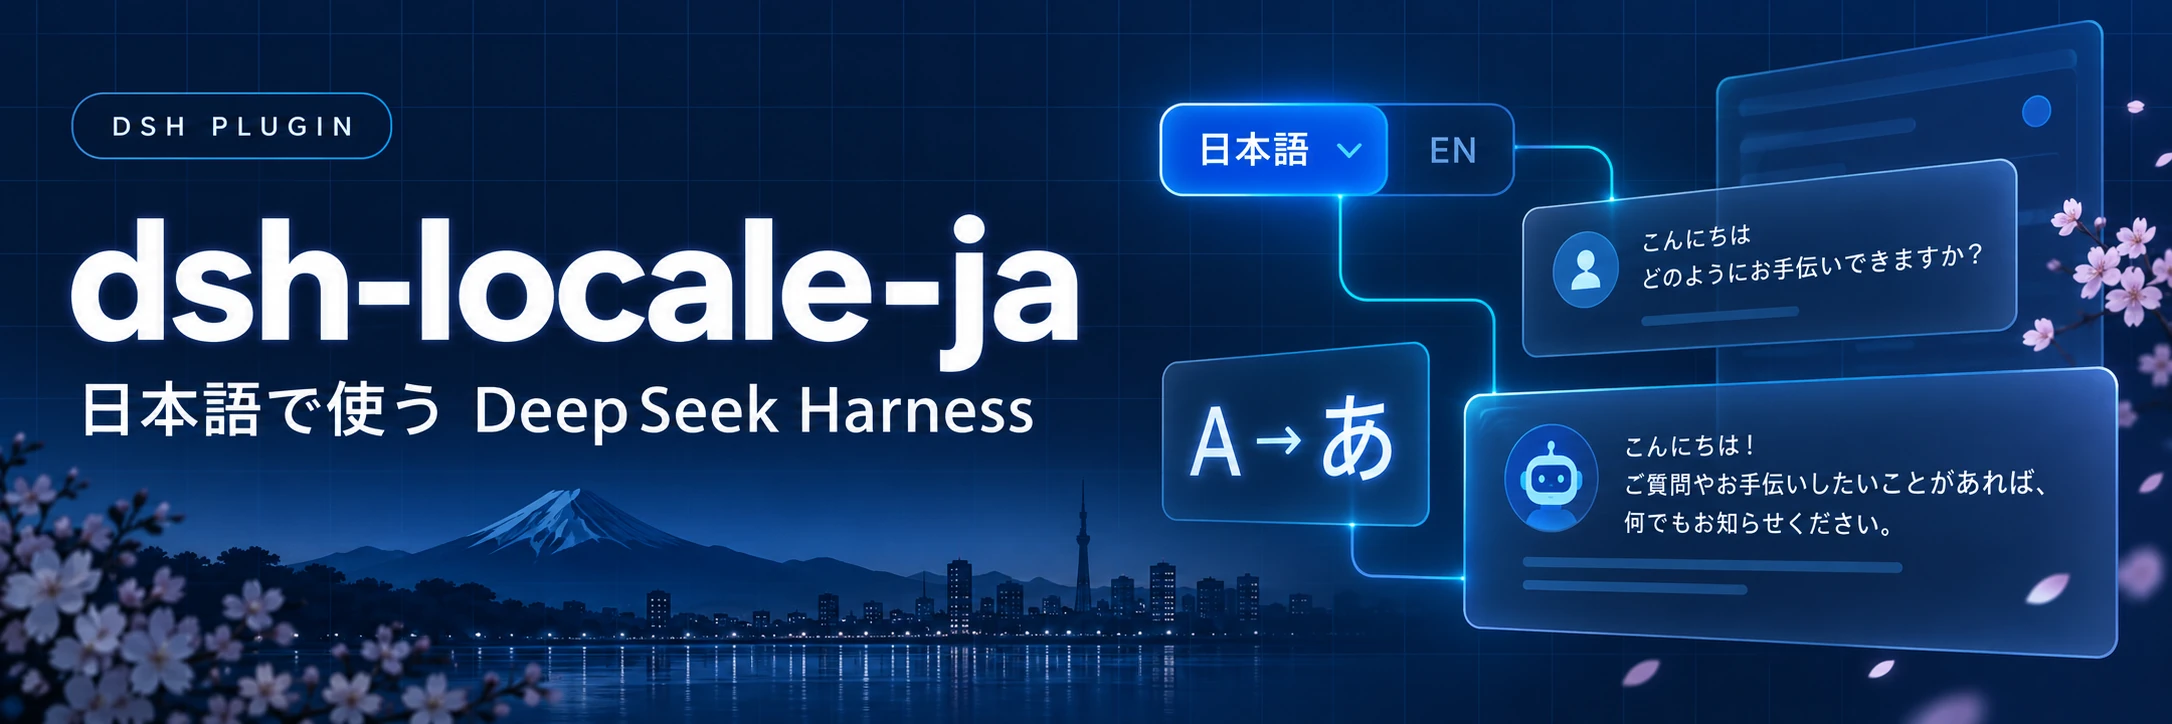
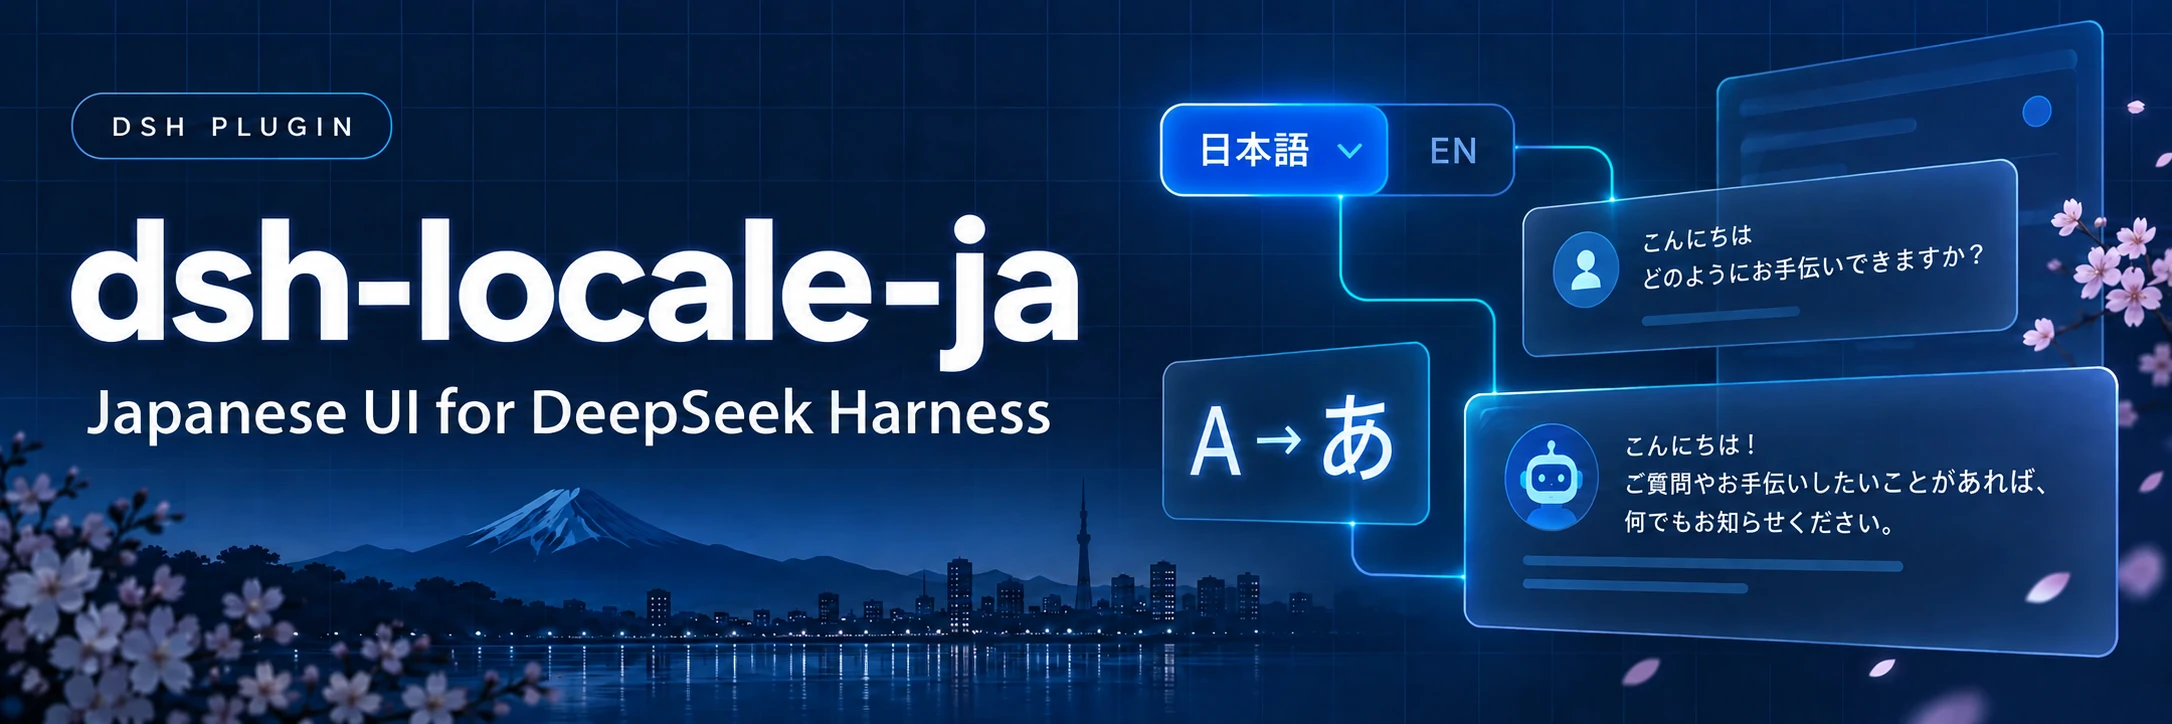
docs: READMEを英語標準にし日本語版と構成を統一

diff --git a/README.md b/README.md
@@ -1,52 +1,66 @@
 <p align="center">
-  <img src="docs/images/readme-header.webp" alt="dsh-locale-ja — 日本語で使う DeepSeek Harness" width="960" />
+  <img src="docs/images/readme-header.webp" alt="dsh-locale-ja — Japanese UI for DeepSeek Harness" width="960" />
 </p>
 
 # dsh-locale-ja
 
-DeepSeek Harness（DSH）の Web UI に **日本語** を追加するプラグインです。本体は変更せず、DSH が公開している言語パック API だけを使います。
+[English](README.md) | [日本語](README.ja.md)
 
-> DSH 0.2.1-alpha.2 の UI 文字列 2,766 件のうち 2,762 件を収録しています（残り4件は空白だけの区切り文字で、英語のまま使います）。0.2.0-rc.2 にしかない文字列の訳も残しています。
+A Japanese language plugin for the DeepSeek Harness (DSH) Web UI, built on DSH's public language-pack API without changing the host application.
 
-## 対応バージョン
+## Features
 
-`web` プロファイルで使います。プラグインの版ごとの対応 DSH は次のとおりです（各版の変更点は [CHANGELOG.md](./CHANGELOG.md)）。
+- Japanese translations for 2,762 of the 2,766 UI strings in DSH `0.2.1-alpha.2`. The remaining four strings are whitespace-only separators and retain their original English values.
+- Retains translations for strings found only in `0.2.0-rc.2`.
+- Requests Japanese AI replies while Japanese is explicitly selected in the UI. Users can still request another reply language.
 
-| プラグイン | 対応 DSH |
+## Compatibility
+
+Use this plugin with the `web` profile. See [CHANGELOG.md](CHANGELOG.md) for release details.
+
+| Plugin | Supported DSH |
 | --- | --- |
-| `v0.3.0` | `0.2.0-rc.2` 以降の `0.2.x`（確認済み：`0.2.0-rc.2`、`0.2.1-alpha.2`） |
-| `v0.2.0` | `0.2.0-rc.2` 以降の `0.2.x`（確認済み：`0.2.0-rc.2`、`0.2.1-alpha.2`） |
-| `v0.1.0` | `0.2.0-rc.2`、`0.2.1-alpha.2` |
+| `v0.3.0` | `0.2.x` starting with `0.2.0-rc.2` (verified: `0.2.0-rc.2`, `0.2.1-alpha.2`) |
+| `v0.2.0` | `0.2.x` starting with `0.2.0-rc.2` (verified: `0.2.0-rc.2`, `0.2.1-alpha.2`) |
+| `v0.1.0` | `0.2.0-rc.2`, `0.2.1-alpha.2` |
 
-`v0.2.0` 以降は、確認していない `0.2.x` の DSH でも読み込まれます。そうした版で新しく増えた文字列は、対応版が出るまで英語で表示されます。
+From `v0.2.0`, the plugin also loads on unverified DSH versions within this `0.2.x` range. Strings introduced by those versions appear in English until a plugin update adds translations.
 
-## インストール
+## Installation
 
-使っている DSH に対応する版のタグを指定して、リポジトリから直接入れます（ビルド済みの `lib/` をリポジトリに含めています）。
+Install a tag compatible with your DSH version. The repository includes prebuilt `lib/` files.
 
-```bash
-dsh plugin --profile web add github:so16tm/dsh-locale-ja#v0.3.0
+```sh
+dsh plugin --profile web add 'git+https://github.com/so16tm/dsh-locale-ja.git#v0.3.0'
 dsh web
 ```
 
-アプリ画面の **Plugins → Add plugin** に `github:so16tm/dsh-locale-ja#v0.3.0` と入力しても入れられます。タグを付けずに指定すると、まだ版として公開していない `main` の最新が入ります。
+This repository is private. Install Git and configure GitHub authentication for an account with access before installing from it.
 
-更新するときは、削除せずに新しい版のタグで同じコマンドを実行し、`dsh web` を再起動してください。入っている版が新しい版に置き換わります。
+You can also enter `git+https://github.com/so16tm/dsh-locale-ja.git#v0.3.0` in **Plugins → Add plugin**. Omitting the tag installs the latest `main`, which may contain unreleased changes.
 
-**Settings → General → Language** で **日本語** を選びます。選択は DSH の設定に保存されます。
+To update, run the same `add` command with the new release tag and restart `dsh web`. It replaces the installed version; you do not need to remove it first.
 
-他の日本語化プラグイン（`@fang2hou/dsh-locale-ja` など）とは同時に有効にできません。先に削除してください。
+To remove:
 
-### AI の応答言語
+```sh
+dsh plugin --profile web remove @so16tm/dsh-locale-ja
+```
 
-**Settings → General → Language** で **日本語** を選んでいる間、このプラグインは日本語で応答するよう AI に指示する一文を、システムプロンプトに加えます。DSH の既定のプロンプトには応答言語の指定がないため、ツールの出力やファイルの言語に引きずられて、応答が英語や中国語に切り替わることがあります。
+## Usage
 
-- 言語を切り替えると、次の応答から反映されます。
-- 日本語以外を選んでいるときや、言語を明示的に選んでいない（ブラウザー任せの）ときは、何も加えません。
-- DSH をループバック以外のアドレス（LAN 内の別の PC など）から開くと、言語の選択は DSH 側に保存されないため、この指示は加わりません。
-- ユーザーが別の言語を明示的に頼んだときは、その言語で応答します。
+Choose **日本語** in **Settings → General → Language**. DSH saves this selection in its settings.
 
-不要な場合は、プロファイルの `cordis.patch.yml` に次を追加すると無効になります。
+While Japanese is explicitly selected, the plugin adds an instruction to the system prompt asking the AI to reply in Japanese. DSH's default prompt does not specify a reply language, so otherwise tool output or file contents can cause replies to switch to English or Chinese.
+
+- Changing the selected language takes effect on the next reply.
+- Selecting another language, or leaving language selection to the browser, adds no instruction.
+- When DSH is opened from a non-loopback address (for example, another PC on the LAN), DSH does not save the language selection on the host, so the instruction is not added.
+- Explicit requests from the user for another language take precedence.
+
+## Configuration
+
+To disable the reply-language instruction, add this entry to the profile's `cordis.patch.yml`:
 
 ```yaml
 - id: so16tm-locale-ja
@@ -54,42 +68,51 @@ dsh web
     replyInUiLanguage: false
 ```
 
-## 開発
+## Limitations
 
-```bash
-pnpm check   # 型チェック + ビルド + テスト
+Do not enable this plugin alongside another Japanese language plugin, such as `@fang2hou/dsh-locale-ja`. Remove the other plugin first.
+
+## Development
+
+```sh
+pnpm install --frozen-lockfile
+pnpm check
 ```
 
-### 本体の新しい版に追従する
+`pnpm check` runs type checking, the build, tests, translation coverage, and release-note validation.
 
-Claude Code では `/dsh-update <版>` で、以下の手順と翻訳・互換性確認・PR 作成までをまとめて実行できます（[スキル](./.claude/skills/dsh-update/SKILL.md)）。手作業で行う場合は次のとおりです。
+### Tracking a new DSH release
 
-```bash
-pnpm sync 0.2.1-alpha.2   # 版または dist-tag（省略時は next）
+In Claude Code, `/dsh-update <version>` runs the update workflow, including translation, compatibility checks, and PR creation. See the [skill](.claude/skills/dsh-update/SKILL.md). To perform the workflow manually:
+
+```sh
+pnpm sync 0.2.1-alpha.2
 ```
 
-npm から指定版の DSH をスクリプト無効で `.dsh-cache/` に取得し、配布コードを静的解析して英語原文を `sources/en.json` に書き出します。前の版と比べた追加・変更・削除の件数と翻訳率を表示します。訳すべきキー（未訳、または英語が変わったもの）は `.dsh-cache/sync-report.json` の `todo` に英語原文つきで出力されます。
+The argument accepts a version or dist-tag and defaults to `next`. The script downloads the specified DSH version from npm into `.dsh-cache/` with package scripts disabled, statically analyzes its distributed code, and writes the English source strings to `sources/en.json`. It reports added, changed, and removed strings and translation coverage. Keys requiring translation (missing translations or changed English) appear in the `todo` field of `.dsh-cache/sync-report.json`, together with their English source.
 
-前の版は引き続き対応版として扱います。前の版にしかないキーや英語が違うキーは、その英語とともに `sources/older.json` に残り、訳も消えません。訳はどの版の英語にも合う言い回しにします（`todo` の `olderEn`）。古い版の対応をやめるときだけ `--drop-older` を付けます。前の版の英語の記録と、新しい版で消えたキーの訳がまとめて消えます。
+The previous version remains supported. Keys found only in that version, or whose English differs, are retained with their English text in `sources/older.json`; their translations are kept as well. Use wording that fits both English versions (see `olderEn` in `todo`). Use `--drop-older` only when dropping support for the previous version: it removes the previous English records and translations for keys absent from the new version.
 
-訳した結果は `{ "名前空間": { "キー": "訳" } }` 形式の JSON にまとめ、次のコマンドで取り込みます。存在しないキーや `{name}` 置換の不一致は拒否されます。
+Prepare translations as JSON in the form `{ "namespace": { "key": "translation" } }`, then apply them:
 
-```bash
+```sh
 pnpm apply path/to/new-translations.json
-pnpm coverage          # 翻訳率の確認（--strict で未訳があれば失敗）
+pnpm coverage
 ```
 
-### 版の公開
+Unknown keys and mismatched `{name}` placeholders are rejected. Use `pnpm coverage --strict` to fail when translations are missing.
 
-版は `package.json` の `version` とタグ `v<版>` で管理します。
+### Releasing a version
 
-1. PR で `version` を上げ、[CHANGELOG.md](./CHANGELOG.md) に `## v<版>` の節（対応 DSH と変更点）を追加し、README の対応表を更新します。節がないと `pnpm check` が失敗します。
-2. PR を `main` にマージすると、CI がタグ `v<版>` と GitHub のリリースを自動で作成します。
+Versions are managed by `version` in `package.json` and the `v<version>` Git tag.
 
-新しい DSH への対応や訳の追加・変更はマイナー版（`0.1.0` → `0.2.0`）、誤訳の修正などはパッチ版（`0.1.0` → `0.1.1`）を上げます。
+1. In a PR, bump `version`, add a `## v<version>` section to [CHANGELOG.md](CHANGELOG.md) describing supported DSH versions and changes, and update the compatibility tables in both `README.md` and `README.ja.md`. `pnpm check` fails if the changelog section is missing.
+2. Merging the PR into `main` lets CI automatically create the `v<version>` tag and a GitHub release.
 
-設計上の約束事は [ARCHITECTURE.md](./ARCHITECTURE.md) を参照してください。
+Use a minor version bump for new DSH support or added/changed translations (`0.1.0` → `0.2.0`), and a patch bump for translation corrections (`0.1.0` → `0.1.1`).
 
-## ライセンス
+See [ARCHITECTURE.md](ARCHITECTURE.md) for design contracts.
 
-[MIT](./LICENSE)。参考にしたプロジェクトは [THIRD_PARTY_NOTICES.md](./THIRD_PARTY_NOTICES.md) に記載しています。
+## License
+
+[MIT](LICENSE). Referenced projects are listed in [THIRD_PARTY_NOTICES.md](THIRD_PARTY_NOTICES.md).

diff --git a/README.ja.md b/README.ja.md
@@ -1,0 +1,118 @@
+<p align="center">
+  <img src="docs/images/readme-header.webp" alt="dsh-locale-ja — Japanese UI for DeepSeek Harness" width="960" />
+</p>
+
+# dsh-locale-ja
+
+[English](README.md) | [日本語](README.ja.md)
+
+DeepSeek Harness（DSH）の Web UI に日本語を追加するプラグインです。本体は変更せず、DSH が公開している言語パック API を使います。
+
+## 機能
+
+- DSH `0.2.1-alpha.2` の UI 文字列 2,766 件のうち 2,762 件を収録しています。残りの4件は空白だけの区切り文字で、英語の原文をそのまま使います。
+- `0.2.0-rc.2` にしかない文字列の訳も残しています。
+- UI で日本語を明示的に選択している間、AI に日本語での応答を指示します。ユーザーが別の応答言語を指定することもできます。
+
+## 対応バージョン
+
+`web` プロファイルで使います。各版の変更点は [CHANGELOG.md](CHANGELOG.md) を参照してください。
+
+| プラグイン | 対応 DSH |
+| --- | --- |
+| `v0.3.0` | `0.2.0-rc.2` 以降の `0.2.x`（確認済み：`0.2.0-rc.2`、`0.2.1-alpha.2`） |
+| `v0.2.0` | `0.2.0-rc.2` 以降の `0.2.x`（確認済み：`0.2.0-rc.2`、`0.2.1-alpha.2`） |
+| `v0.1.0` | `0.2.0-rc.2`、`0.2.1-alpha.2` |
+
+`v0.2.0` 以降は、確認していない対応範囲内の `0.2.x` の DSH でも読み込まれます。そうした版で新しく増えた文字列は、対応版が出るまで英語で表示されます。
+
+## インストール
+
+使っている DSH に対応する版のタグを指定して、リポジトリから直接入れます。ビルド済みの `lib/` をリポジトリに含めています。
+
+```sh
+dsh plugin --profile web add 'git+https://github.com/so16tm/dsh-locale-ja.git#v0.3.0'
+dsh web
+```
+
+このリポジトリは非公開です。リポジトリへのアクセス権があるアカウントで GitHub 認証を設定し、Git をインストールしてから実行してください。
+
+アプリ画面の **Plugins → Add plugin** に `git+https://github.com/so16tm/dsh-locale-ja.git#v0.3.0` と入力しても入れられます。タグを付けずに指定すると、まだ版として公開していない `main` の最新が入ります。
+
+更新するときは、削除せずに新しい版のタグで同じ `add` コマンドを実行し、`dsh web` を再起動してください。入っている版が新しい版に置き換わります。
+
+削除するときは次を実行します。
+
+```sh
+dsh plugin --profile web remove @so16tm/dsh-locale-ja
+```
+
+## 使い方
+
+**Settings → General → Language** で **日本語** を選びます。選択は DSH の設定に保存されます。
+
+日本語を明示的に選んでいる間、このプラグインは日本語で応答するよう AI に指示する一文をシステムプロンプトに加えます。DSH の既定のプロンプトには応答言語の指定がないため、ツールの出力やファイルの言語に引きずられて、応答が英語や中国語に切り替わることがあります。
+
+- 言語を切り替えると、次の応答から反映されます。
+- 日本語以外を選んでいるときや、言語を明示的に選んでいない（ブラウザー任せの）ときは、何も加えません。
+- DSH をループバック以外のアドレス（LAN 内の別の PC など）から開くと、言語の選択は DSH 側に保存されないため、この指示は加わりません。
+- ユーザーが別の言語を明示的に頼んだときは、その言語で応答します。
+
+## 設定
+
+応答言語の指示が不要な場合は、プロファイルの `cordis.patch.yml` に次を追加すると無効になります。
+
+```yaml
+- id: so16tm-locale-ja
+  config:
+    replyInUiLanguage: false
+```
+
+## 制限事項
+
+他の日本語化プラグイン（`@fang2hou/dsh-locale-ja` など）とは同時に有効にできません。先に削除してください。
+
+## 開発
+
+```sh
+pnpm install --frozen-lockfile
+pnpm check
+```
+
+`pnpm check` は型チェック、ビルド、テスト、翻訳率の確認、リリースノートの検証を実行します。
+
+### 本体の新しい版に追従する
+
+Claude Code では `/dsh-update <版>` で、翻訳・互換性確認・PR 作成までをまとめて実行できます（[スキル](.claude/skills/dsh-update/SKILL.md)）。手作業で行う場合は次のとおりです。
+
+```sh
+pnpm sync 0.2.1-alpha.2
+```
+
+引数には版または dist-tag を指定します。省略時は `next` です。npm から指定版の DSH をスクリプト無効で `.dsh-cache/` に取得し、配布コードを静的解析して英語原文を `sources/en.json` に書き出します。前の版と比べた追加・変更・削除の件数と翻訳率を表示します。訳すべきキー（未訳、または英語が変わったもの）は `.dsh-cache/sync-report.json` の `todo` に英語原文つきで出力されます。
+
+前の版は引き続き対応版として扱います。前の版にしかないキーや英語が違うキーは、その英語とともに `sources/older.json` に残り、訳も消えません。訳はどの版の英語にも合う言い回しにします（`todo` の `olderEn`）。古い版の対応をやめるときだけ `--drop-older` を付けます。前の版の英語の記録と、新しい版で消えたキーの訳がまとめて消えます。
+
+訳した結果は `{ "名前空間": { "キー": "訳" } }` 形式の JSON にまとめ、次のコマンドで取り込みます。
+
+```sh
+pnpm apply path/to/new-translations.json
+pnpm coverage
+```
+
+存在しないキーや `{name}` 置換の不一致は拒否されます。`pnpm coverage --strict` は未訳があれば失敗します。
+
+### 版の公開
+
+版は `package.json` の `version` とタグ `v<版>` で管理します。
+
+1. PR で `version` を上げ、[CHANGELOG.md](CHANGELOG.md) に `## v<版>` の節（対応 DSH と変更点）を追加し、`README.md` と `README.ja.md` の両方の対応表を更新します。節がないと `pnpm check` が失敗します。
+2. PR を `main` にマージすると、CI がタグ `v<版>` と GitHub のリリースを自動で作成します。
+
+新しい DSH への対応や訳の追加・変更はマイナー版（`0.1.0` → `0.2.0`）、誤訳の修正などはパッチ版（`0.1.0` → `0.1.1`）を上げます。
+
+設計上の約束事は [ARCHITECTURE.md](ARCHITECTURE.md) を参照してください。
+
+## ライセンス
+
+[MIT](LICENSE)。参考にしたプロジェクトは [THIRD_PARTY_NOTICES.md](THIRD_PARTY_NOTICES.md) に記載しています。
